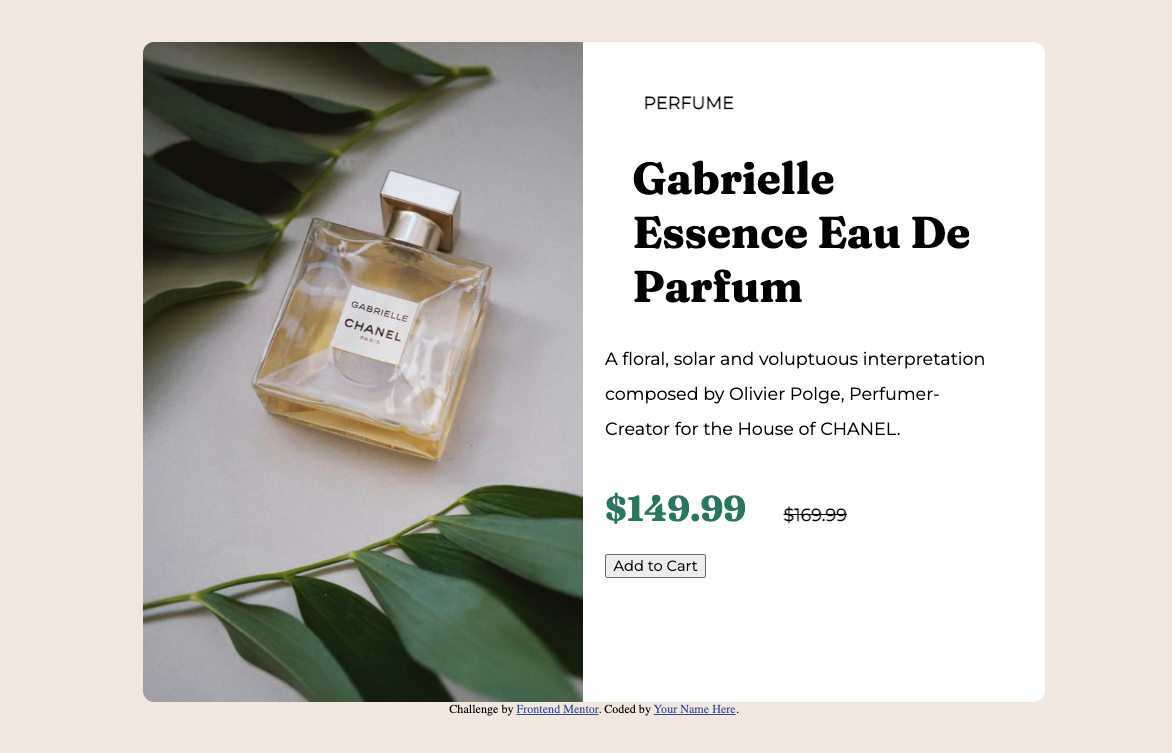
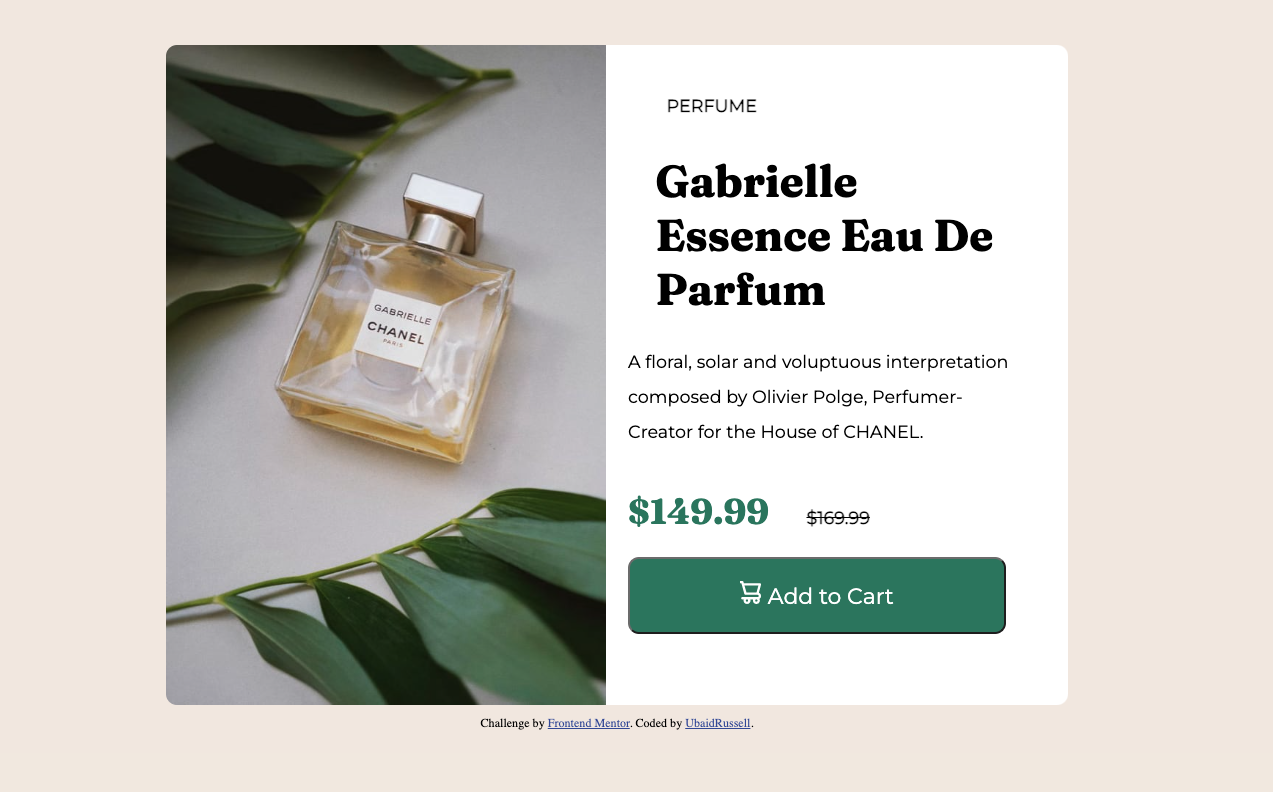
Finished hover states and updated Screenshot

Changed region(s): [[0.1229, 0.0305, 0.8908, 0.9469], [0.215, 0.1833, 0.2457, 0.2138]]

diff --git a/index.html b/index.html
@@ -26,7 +26,7 @@
   Perfumer-Creator for the House of CHANEL.</p>
   <h1   class="discounted-price-tag">$149.99</h1>
   <h4   class="price-tag">$169.99</h4>
-  <button class="pruchase-button"><img class = "shopping-cart"src="./images/icon-cart.svg" alt=""> Add to Cart</button>
+  <button class="purchase-button"><img class = "shopping-cart"src="./images/icon-cart.svg" alt=""> Add to Cart</button>
 </div>
   
 </div>
@@ -34,5 +34,6 @@
     Challenge by <a href="https://www.frontendmentor.io?ref=challenge" target="_blank">Frontend Mentor</a>. 
     Coded by <a href="https://www.frontendmentor.io/profile/UbaidRussell">UbaidRussell</a>.
   </div>
+  <script src="main.js"></script>
 </body>
 </html>

diff --git a/main.js b/main.js
@@ -1,0 +1,11 @@
+let button = document.querySelector('button');
+
+function changeColor(event){
+    event.target.style.backgroundColor = "hsl(212, 21%, 14%)"
+}
+function returnColor(event){
+    event.target.style.backgroundColor = ''
+}
+
+button.addEventListener('mouseover', changeColor)
+button.addEventListener('mouseout', returnColor)
